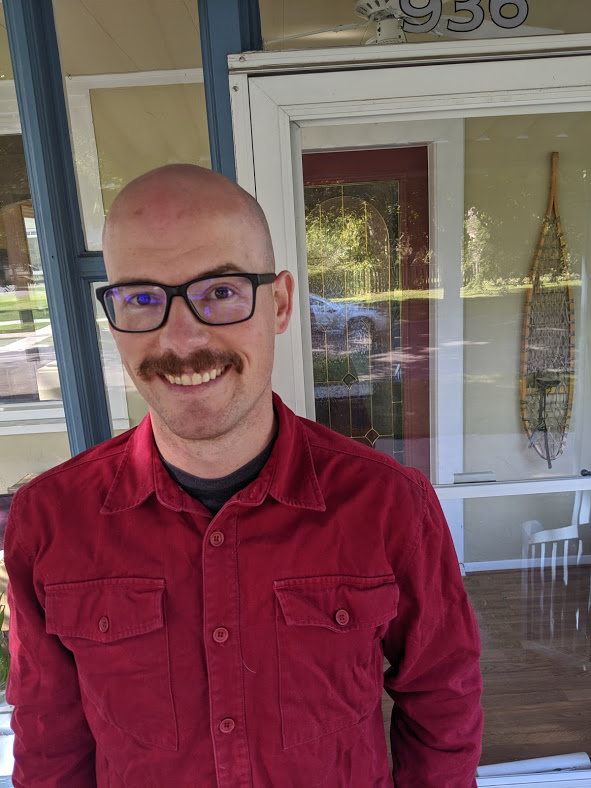
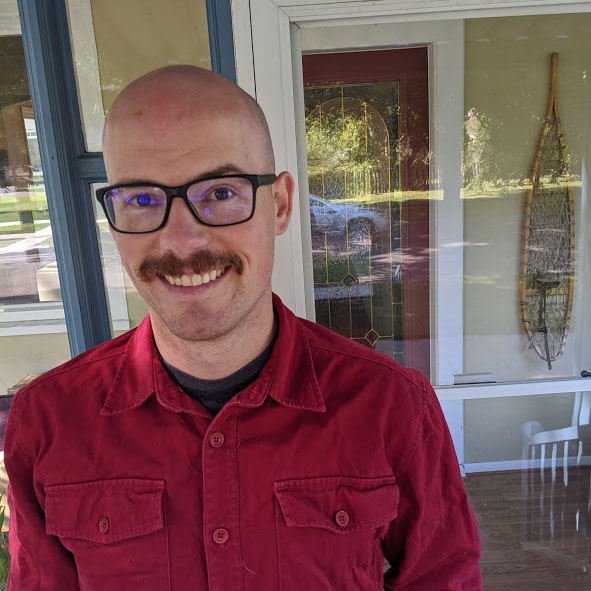
add custom css.

diff --git a/app/templates/index.html b/app/templates/index.html
@@ -1,15 +1,16 @@
 {% extends "base.html" %}
 {% block app_content %}
 	<div class="image-container">
-		<center>
+		<img src="{{ url_for('static', filename='1stStreet.jpg') }}" width="100%">
+		<div class="image-text">
 			{% if current_user.is_anonymous %}
-			<h1>{{ _("Welcome") }}</h1>
+				<h1>{{ _("Welcome") }}</h1>
 			{% else %}
-			<h1>{{ _('Hello, %(username)s!', username=current_user.username) }}</h1>
+				<h1>{{ _('Hello, %(username)s!', username=current_user.username) }}</h1>
 			{% endif %}
 			<h2>{{ _("Let's build better communities together") }}</h2>
-			<a href="{{ url_for('main.contact') }}" class="btn btn-primary" role="button"; padding: 10px>Contact Brian</a>
-			<img src="{{ url_for('static', filename='courthouse.jpg') }}" width="100%">
-		</center>
+			<a href="{{ url_for('main.contact') }}" class="btn btn-primary btn-lg" role="button";>Contact Brian</a>
+			<p> </p><br>
+		</div>
 	</div>
 {% endblock %}

diff --git a/app/templates/contact.html b/app/templates/contact.html
@@ -8,6 +8,18 @@
 	<row>
 		<h2>Phone: 509-675-0489</h2>
 		<h2>Email: <a href="mailto:bcparker21@gmail.com">bcparker21@gmail.com</a></h2>
+		<a href="https://www.facebook.com/brian.parker.7927/" target="_blank">
+			<i class="fa fa-facebook-official" style="color: black; margin: 20px; font-size: 60px;"></i>
+		</a>
+		<a href="https://www.instagram.com/bcparker21/" target="_blank">
+			<i class="fa fa-instagram" style="color: black; margin: 20px; font-size: 60px"></i>
+		</a><br>
+		<a href="https://www.linkedin.com/in/brian-parker-59b45118/" target="_blank">
+			<i class="fa fa-linkedin-square " style="color: black; margin: 20px; font-size: 60px"></i>
+		</a>
+		<a href="https://github.com/bcparker21" target="_blank">
+			<i class="fa fa-github" style="color: black; margin: 20px; font-size: 60px"></i>
+		</a>
 	</row>
 </div>
 {% endblock %}

diff --git a/app/templates/base.html b/app/templates/base.html
@@ -1,5 +1,11 @@
 {% extends 'bootstrap/base.html' %}
 
+{% block styles %}
+    {{ super() }}
+    <link rel="stylesheet" href="{{ url_for('static', filename='mystyle.css') }}">
+    <link rel="stylesheet" href="https://cdnjs.cloudflare.com/ajax/libs/font-awesome/4.7.0/css/font-awesome.min.css">
+{% endblock %}
+
 {% block title %}
     {% if title %}{{ title }} - Brian Parker - Urban Planner{% else %}{{ _('Brian Parker - Urban Planner') }}{% endif %}
 {% endblock %}
@@ -82,9 +88,4 @@
 {% block scripts %}
     {{ super() }}
     {{ moment.include_moment() }}
-{% endblock %}
-
-{% block styles %}
-    {{ super() }}
-    <link rel="stylesheet" href="{{ url_for('static', filename='mystyle.css') }}">
 {% endblock %}

diff --git a/app/templates/about.html b/app/templates/about.html
@@ -1,1 +1,12 @@
 {% extends "base.html" %}
+{% block app_content %}
+<div class="col-md-8">
+	<row>
+		<img src="{{ url_for('static', filename='selfie.jpg') }}" width="100%">
+</div>
+<div class="col-md-4">
+	<row>
+		<p>Brian Parker</p>
+	</row>
+</div>
+{% endblock %}

diff --git a/app/static/mystyle.css b/app/static/mystyle.css
@@ -1,7 +1,10 @@
-.image-container{
-	width: 100%;
+.image-container {
 	position: relative;
+}
+.image-text{
+	position: absolute;
 	text-align: center;
+	top: 1%;
+	transform: translateX(50%);
 	color: white;
-	background-image: url('courthouse.jpg');
 }
